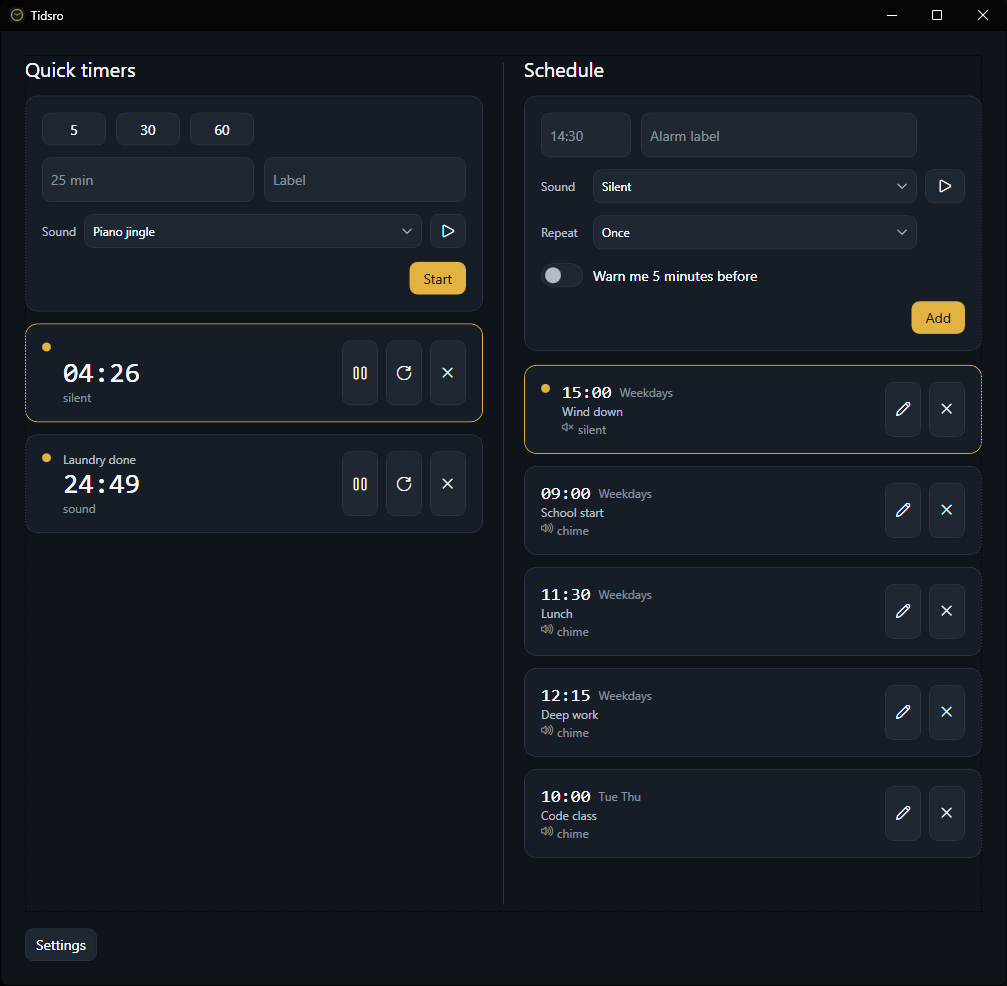
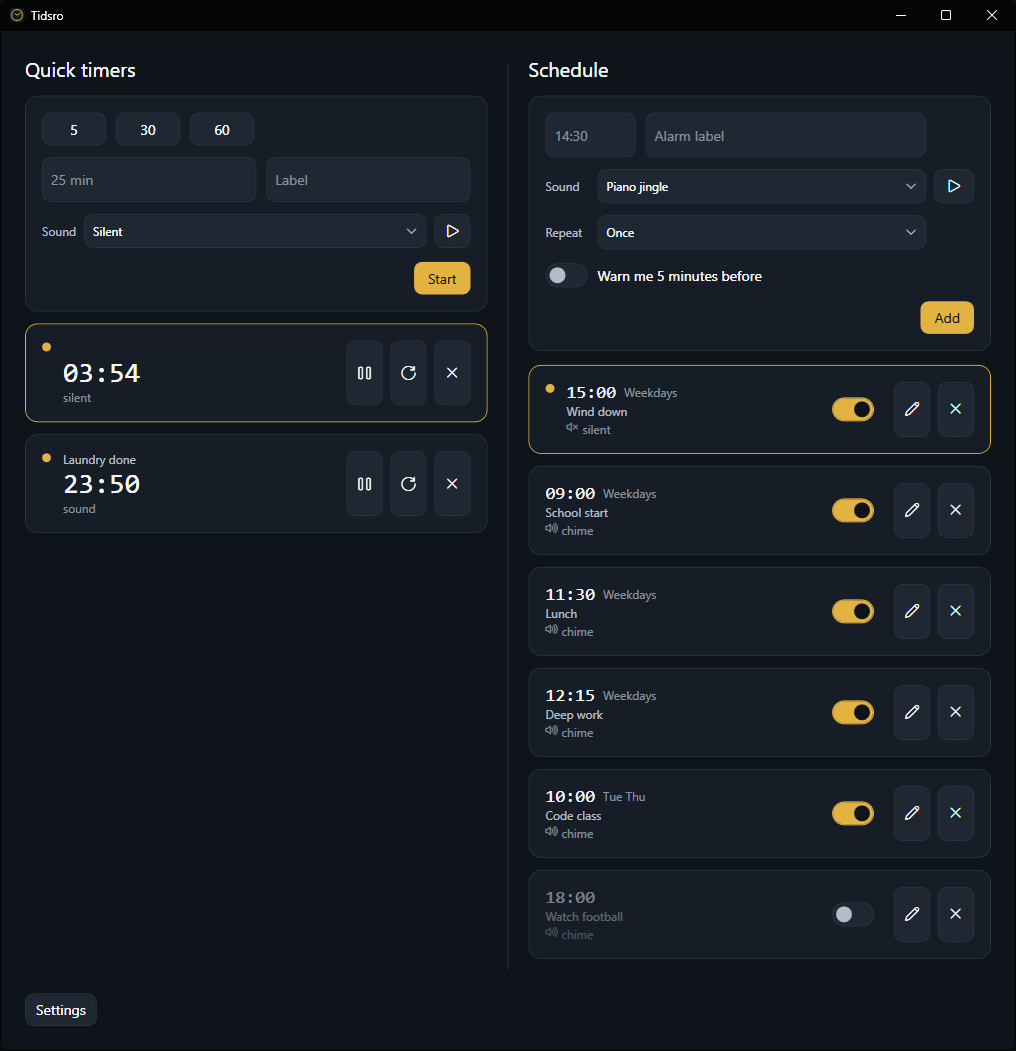
docs: update README hero screenshot to show the alarm toggle

diff --git a/README.md b/README.md
@@ -5,7 +5,7 @@ A calm, dark-mode-first desktop timer for Windows — countdown timers and clock
 > **Tidsro** is Norwegian: *tid* (time) + *ro* (calm / peace) — roughly *"calm time."* The name is the whole idea: a timer that's visible when you need it and invisible when you don't.
 
 <p align="center">
-  <img src="docs/screenshots/main-window.png" alt="Tidsro main window: two Quick timers counting down on the left, a Schedule of recurring weekday alarms on the right, in a dark theme with gold accents." width="720">
+  <img src="docs/screenshots/main-window.png" alt="Tidsro main window: two Quick timers counting down on the left, and a Schedule of weekday alarms on the right — each row has an on/off toggle, with one alarm switched off and dimmed at the bottom — in a dark theme with gold accents." width="720">
 </p>
 
 ## Who it's for